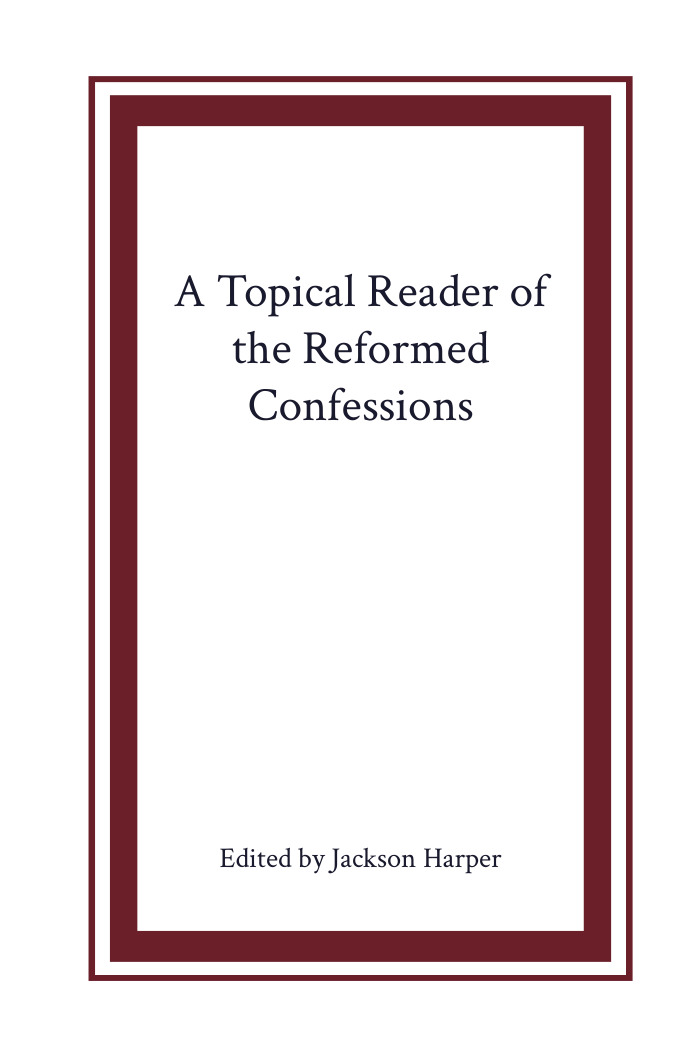
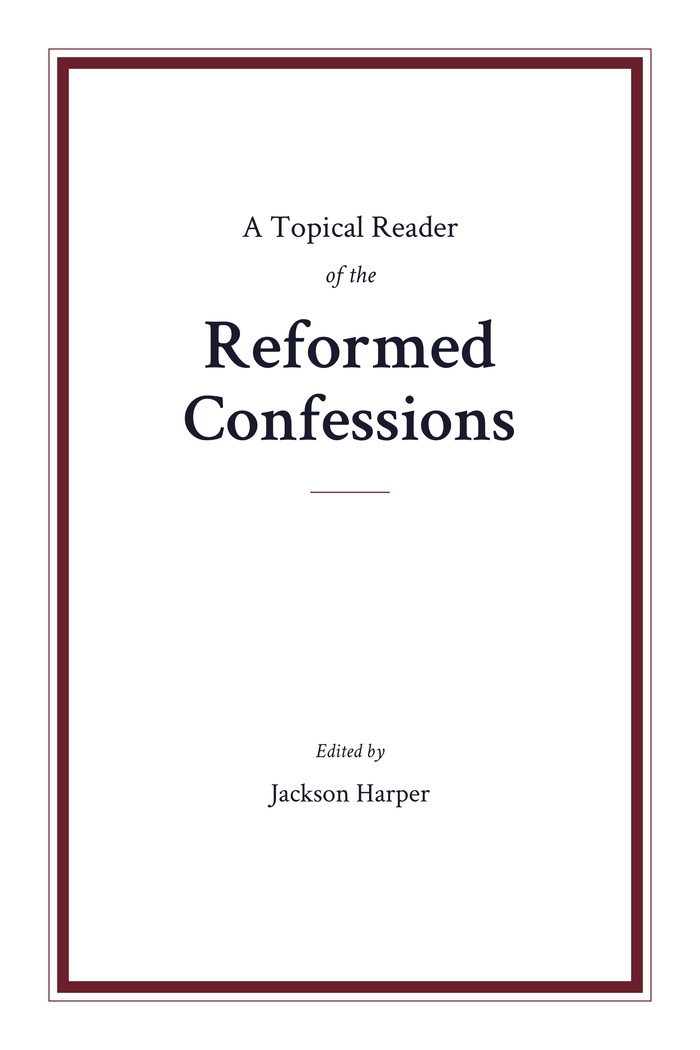
Update Reformed Confessions ebook cover

diff --git a/index.html b/index.html
@@ -55,7 +55,7 @@
         <div class="ebook-grid">
           <article class="ebook" aria-labelledby="ebook-confessions-title">
             <a class="ebook-cover" href="./downloads/reformed-confessions-reader.pdf" download="Reformed_Confessions_Reader.pdf" aria-label="Download A Topical Reader of the Reformed Confessions as a PDF">
-              <img src="./assets/covers/reformed-confessions-reader.jpg" alt="Front cover of A Topical Reader of the Reformed Confessions" width="700" height="1058" loading="lazy" decoding="async">
+              <img src="./assets/covers/reformed-confessions-reader.jpg?v=2" alt="Front cover of A Topical Reader of the Reformed Confessions" width="700" height="1050" loading="lazy" decoding="async">
             </a>
             <div class="ebook-details">
               <h3 id="ebook-confessions-title">A Topical Reader of the Reformed Confessions</h3>
